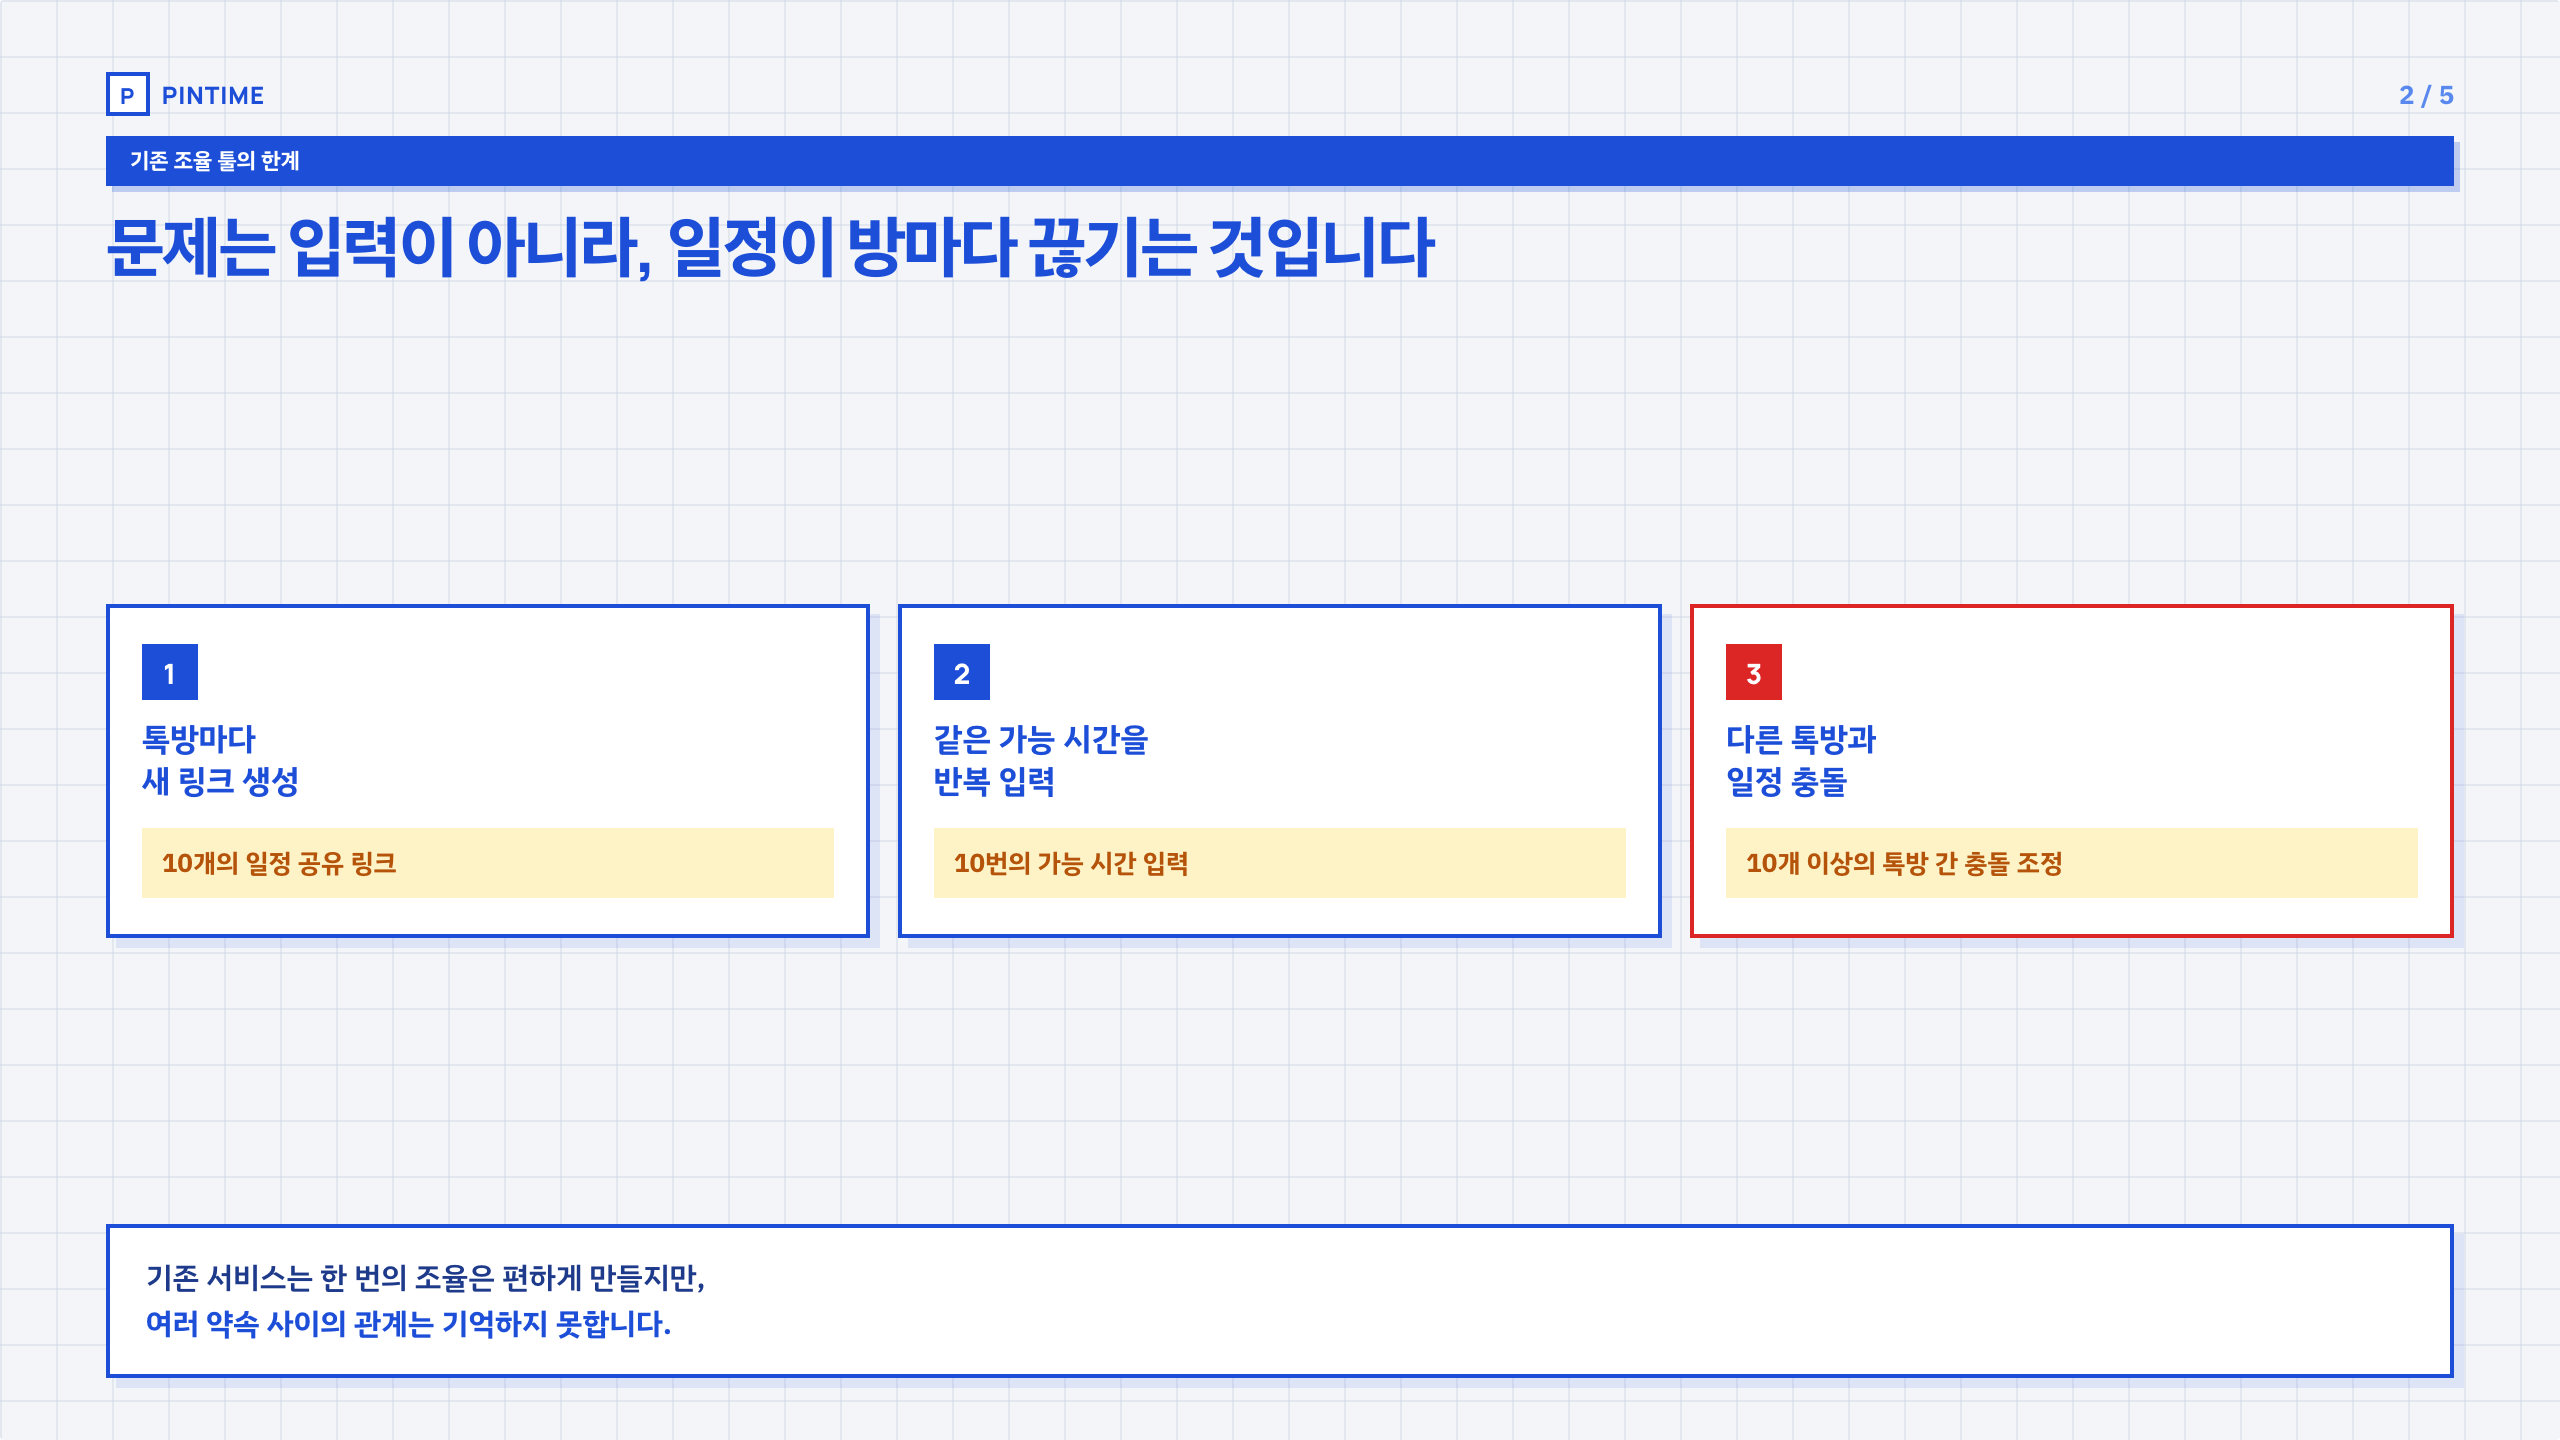
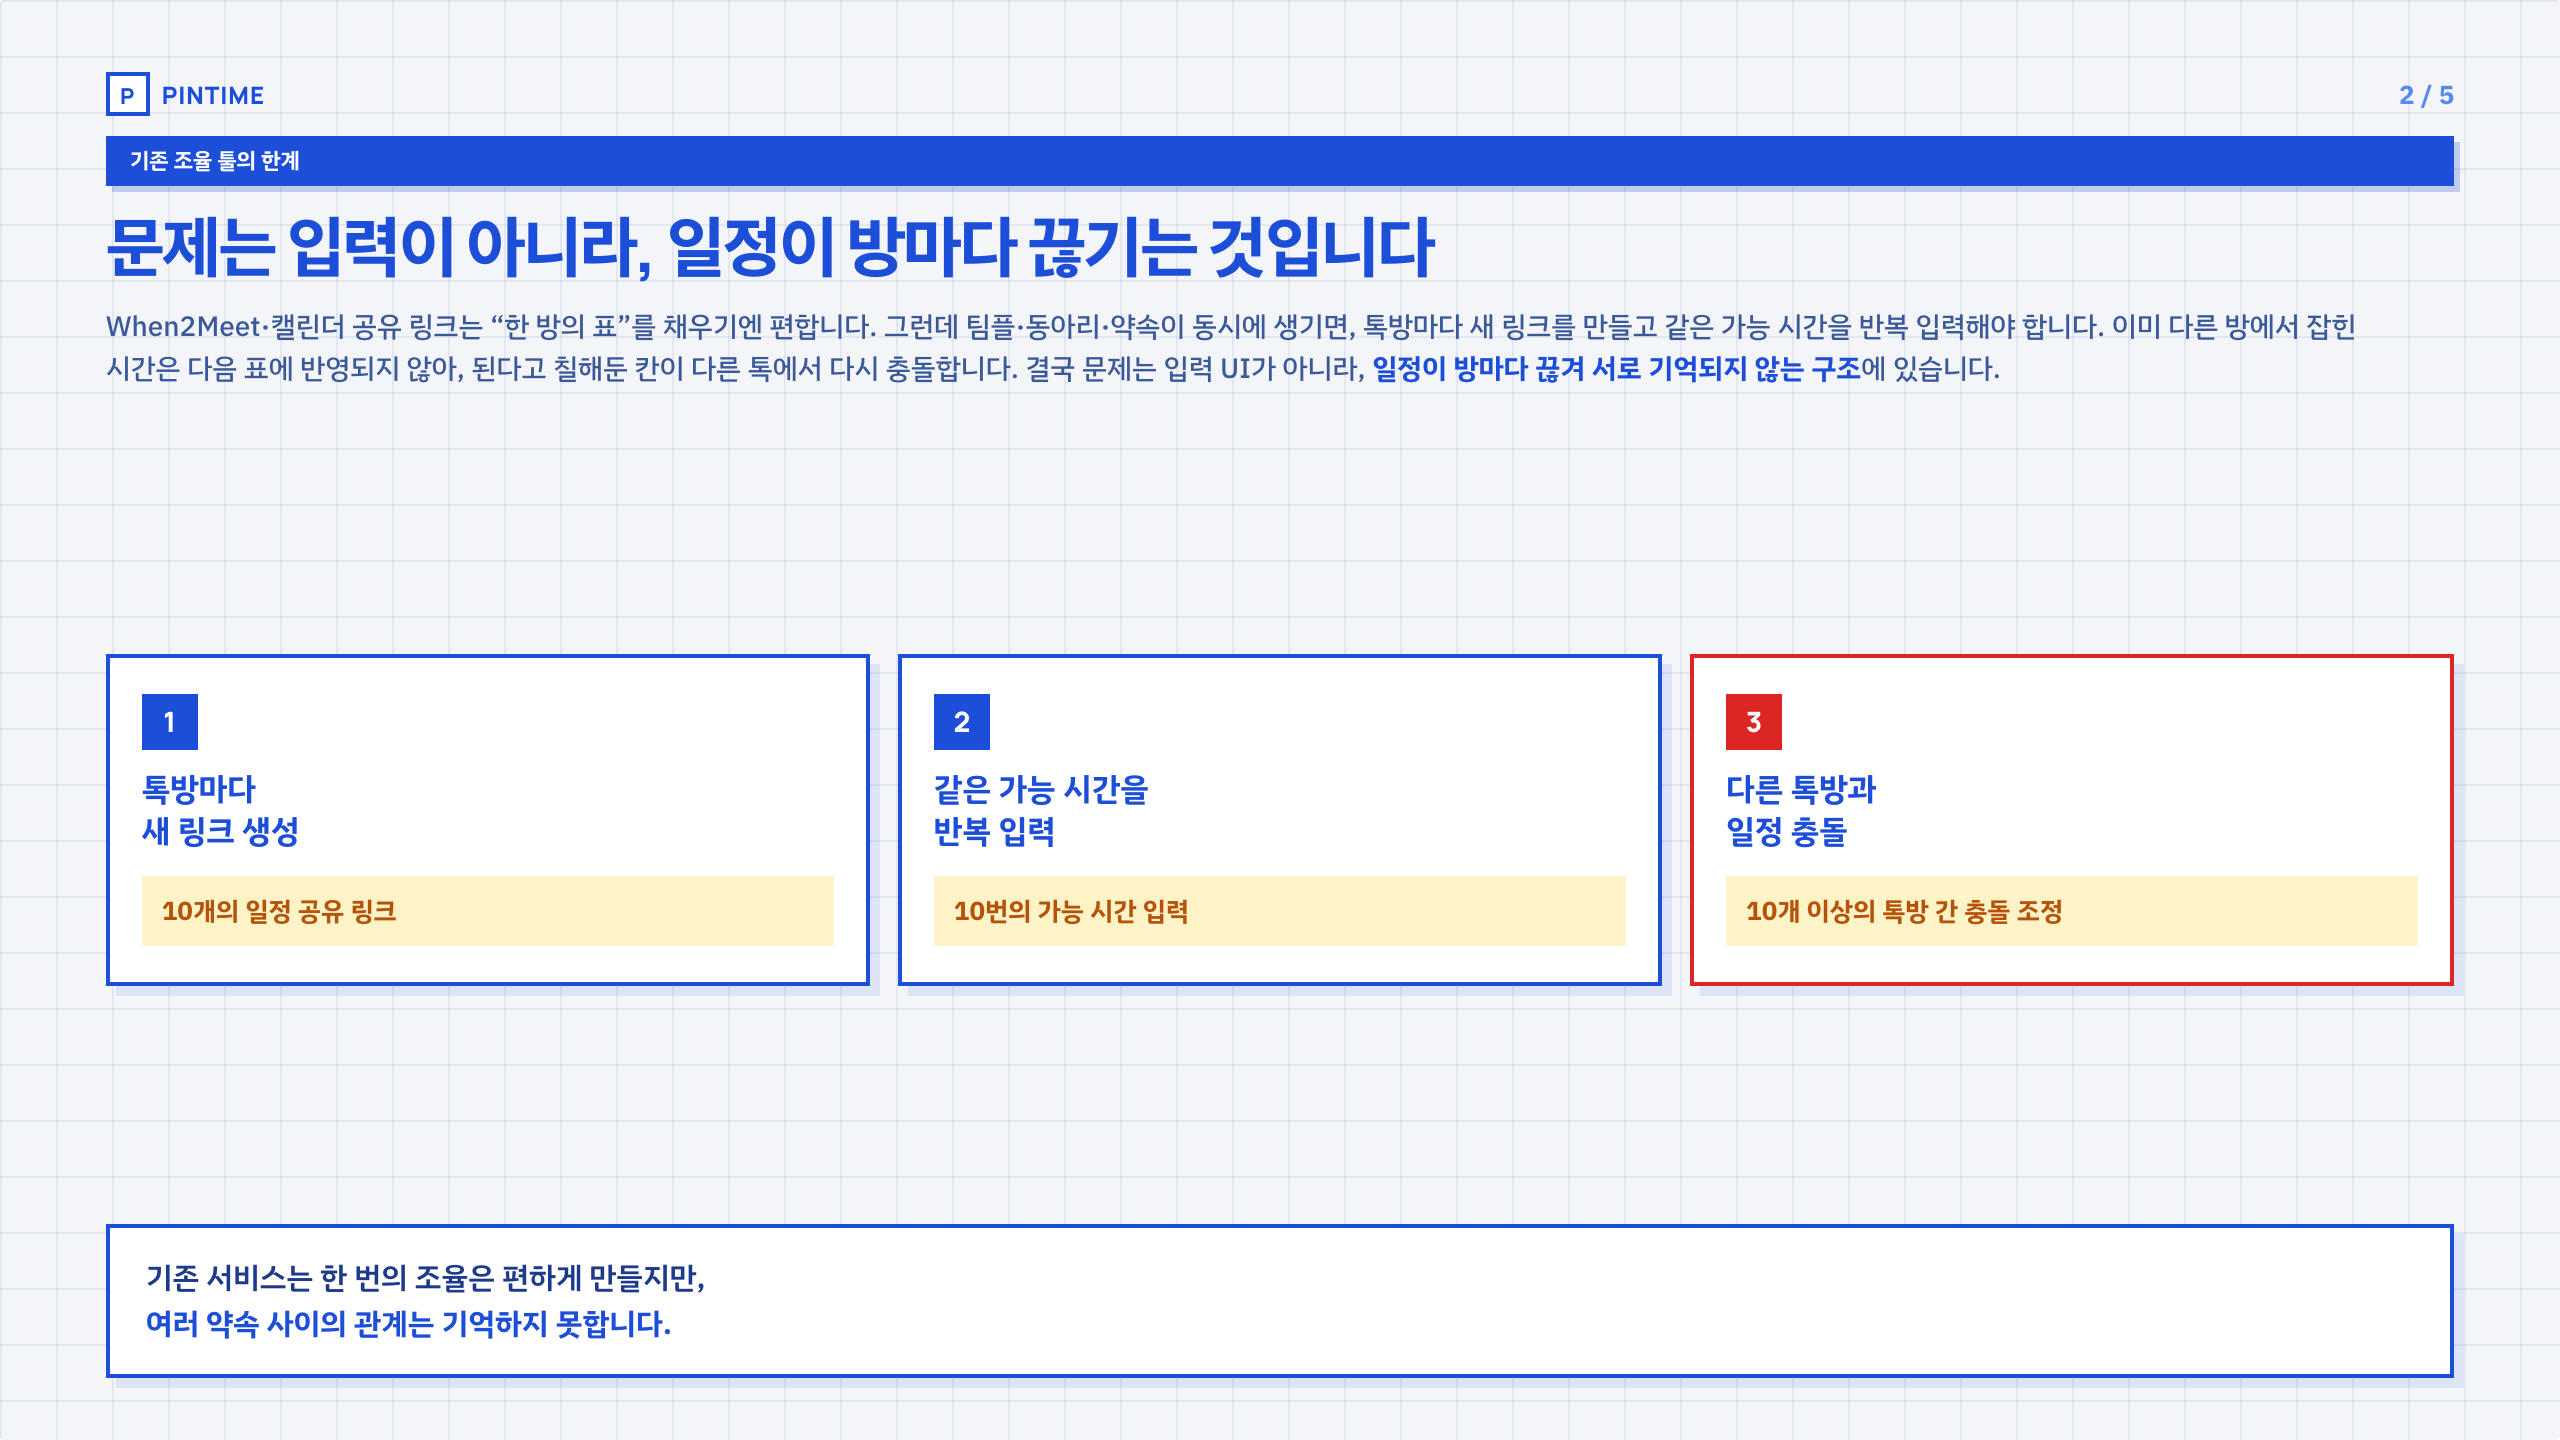
Add prose under slide 2 explaining legacy scheduling flow.

Changed region(s): [[0.0312, 0.4062, 0.9688, 0.6875], [0.0312, 0.2188, 0.9375, 0.2812]]

diff --git a/public/pitch.html b/public/pitch.html
@@ -194,6 +194,14 @@
         white-space: nowrap;
       }
 
+      .slide-lead.lead-wrap {
+        white-space: normal;
+        max-width: 11.8in;
+        font-size: 14px;
+        line-height: 1.55;
+        font-weight: 500;
+      }
+
       /* —— 1장: 톡 → PinTime → 확정 (가로) —— */
       .hero-bridge {
         display: grid;
@@ -391,9 +399,10 @@
         display: grid;
         grid-template-columns: repeat(3, 1fr);
         gap: 14px;
-        margin-top: 14px;
+        margin-top: 12px;
         flex: 1;
         align-content: center;
+        min-height: 0;
       }
       .problem-step {
         background: #fff;
@@ -2129,6 +2138,13 @@
           <h2 class="slide-title">
             문제는 입력이 아니라, 일정이 방마다 끊기는 것입니다
           </h2>
+          <p class="slide-lead lead-wrap">
+            When2Meet·캘린더 공유 링크는 “한 방의 표”를 채우기엔 편합니다.
+            그런데 팀플·동아리·약속이 동시에 생기면, 톡방마다 새 링크를 만들고
+            같은 가능 시간을 반복 입력해야 합니다. 이미 다른 방에서 잡힌 시간은
+            다음 표에 반영되지 않아, 된다고 칠해둔 칸이 다른 톡에서 다시 충돌합니다.
+            결국 문제는 입력 UI가 아니라, <b style="color:var(--blue)">일정이 방마다 끊겨 서로 기억되지 않는 구조</b>에 있습니다.
+          </p>
 
           <div class="problem-flow">
             <div class="problem-step">
